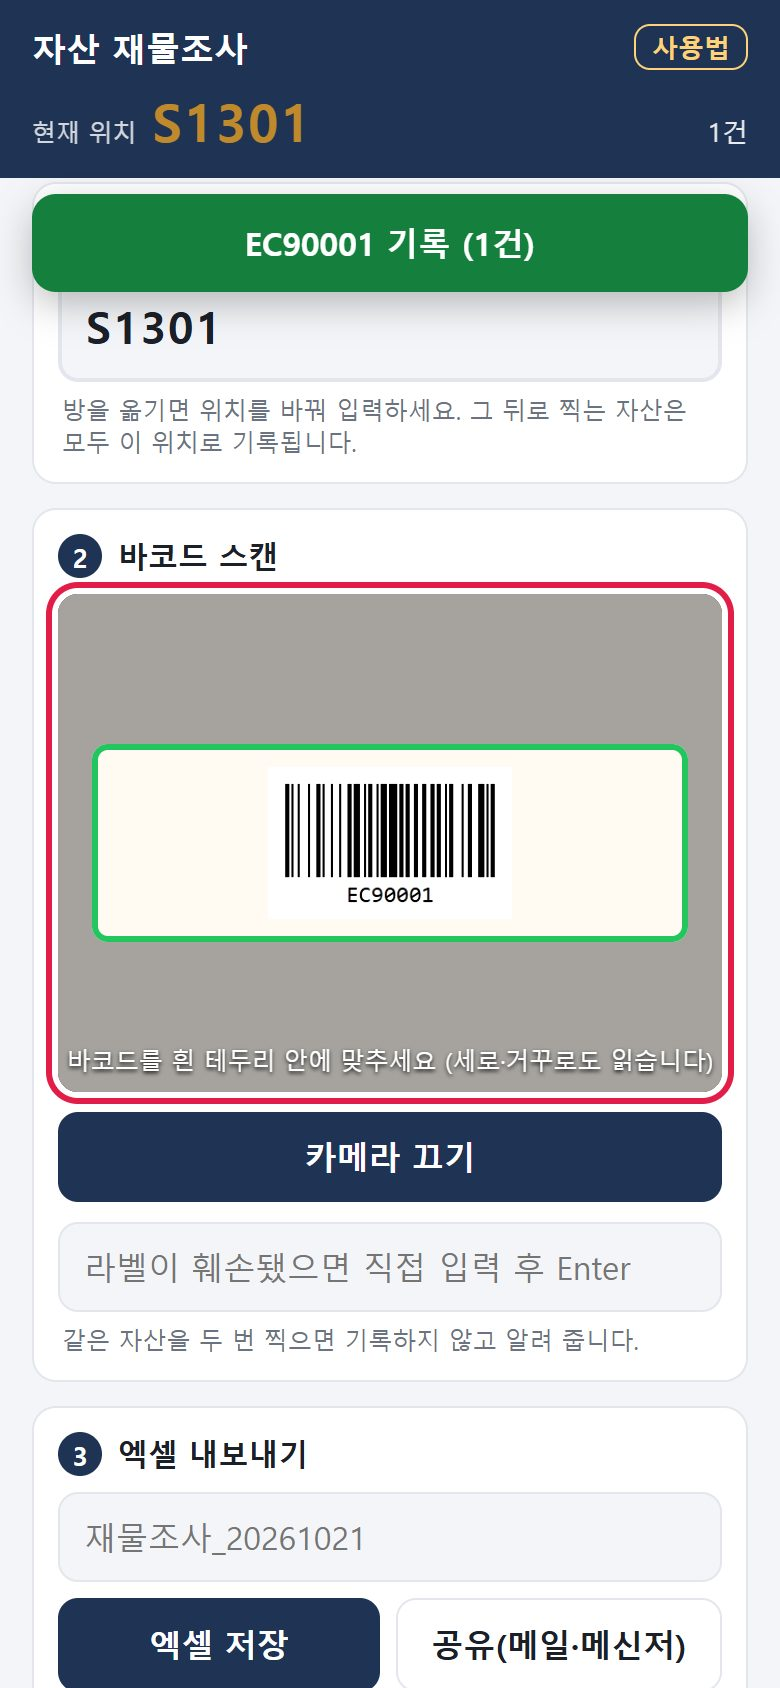
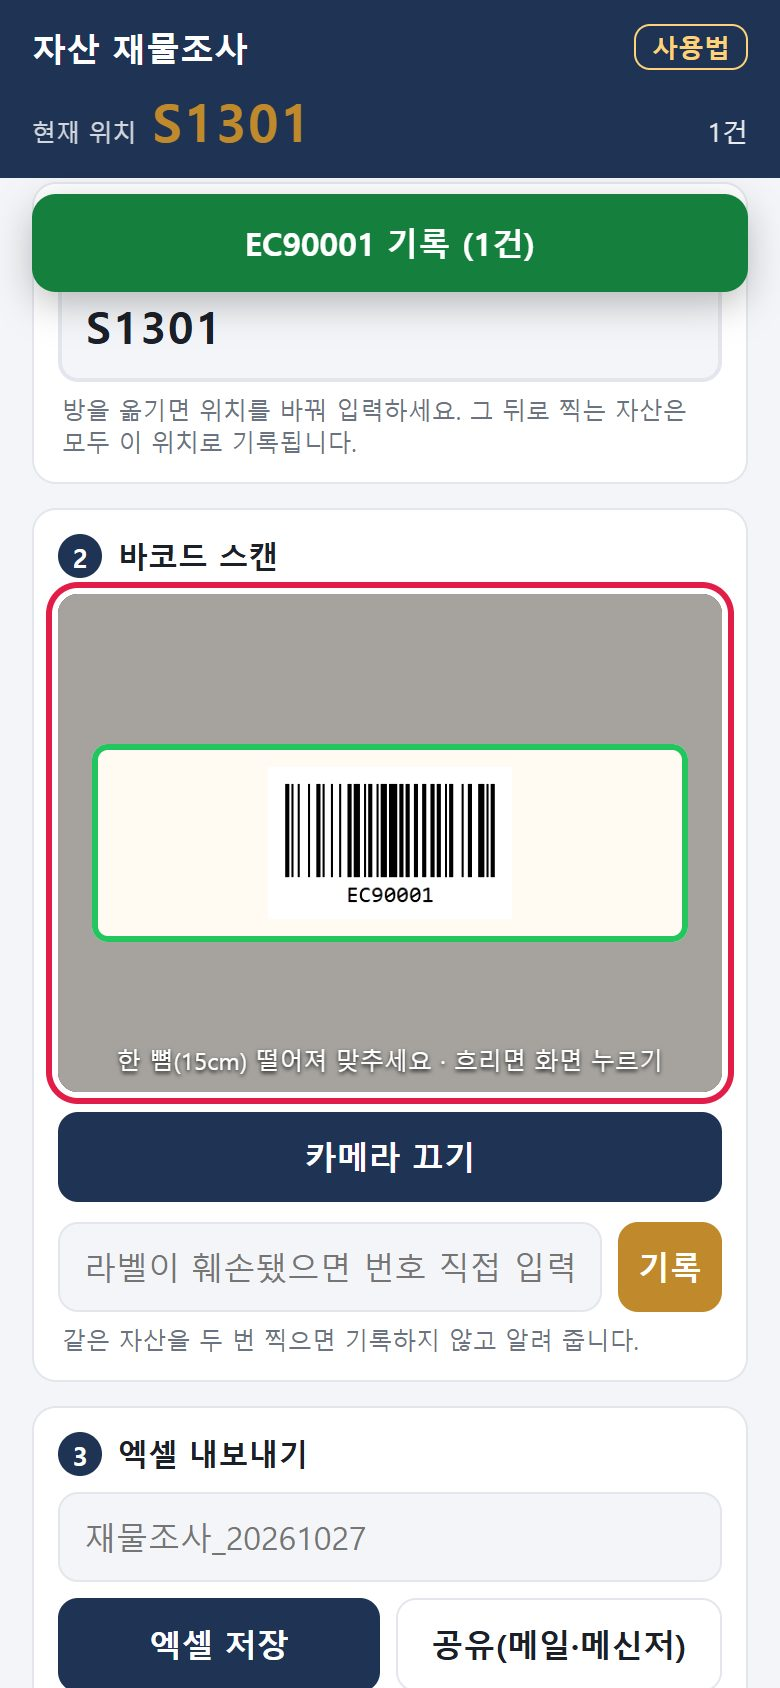
사용법 그림 새 화면으로 교체, 캐시 버전 v8
- help/step1~8.jpg 재캡처: 직접 입력 [기록] 버튼, 카메라 안내 문구(한 뼘·화면 누르기)
- 그림은 캐시 우선이라 sw VERSION 을 asset-pwa-v8 로 올려 새 그림을 받게 함

Changed region(s): [[0.0923, 0.6161, 0.9231, 0.6469], [0.4615, 0.7085, 0.9538, 0.8009]]

diff --git a/sw.js b/sw.js
@@ -1,7 +1,7 @@
 // 오프라인 동작용 — 앱 파일만 캐시한다(스캔 기록은 다루지 않음). 파일을 고치면 VERSION 을 올릴 것.
 // 화면(HTML)·앱 코드(js)는 네트워크 우선: 인터넷이 되면 한 번만 열어도 새 판이 뜨고, 안 되면 캐시로 연다.
 // 라이브러리·그림은 캐시 우선(크고 거의 안 바뀜).
-var VERSION = 'asset-pwa-v7';
+var VERSION = 'asset-pwa-v8';
 var FILES = ['./', 'index.html', 'app.js', 'export.js', 'scanner.js', 'manifest.webmanifest',
   'icon-192.png', 'icon-512.png', 'vendor/zxing-library.min.js', 'vendor/xlsx.full.min.js',
   'help.html', 'help/step1.jpg', 'help/step2.jpg', 'help/step3.jpg', 'help/step4.jpg',
